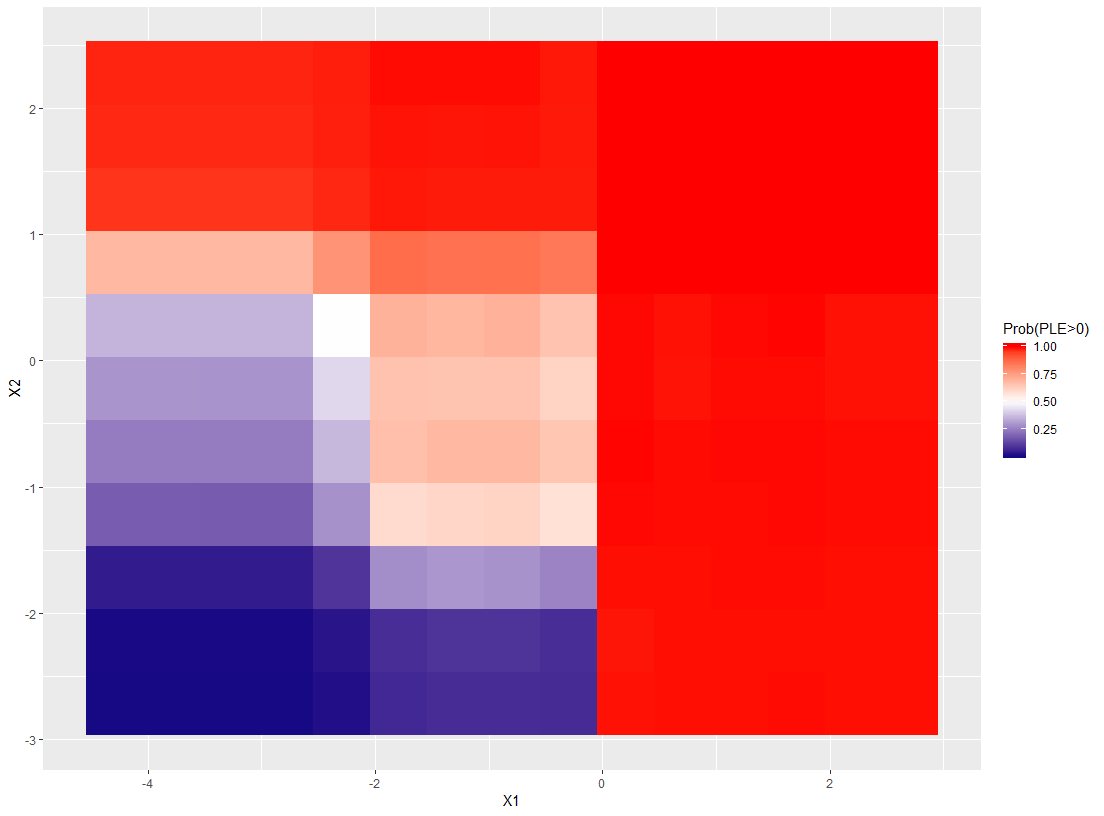
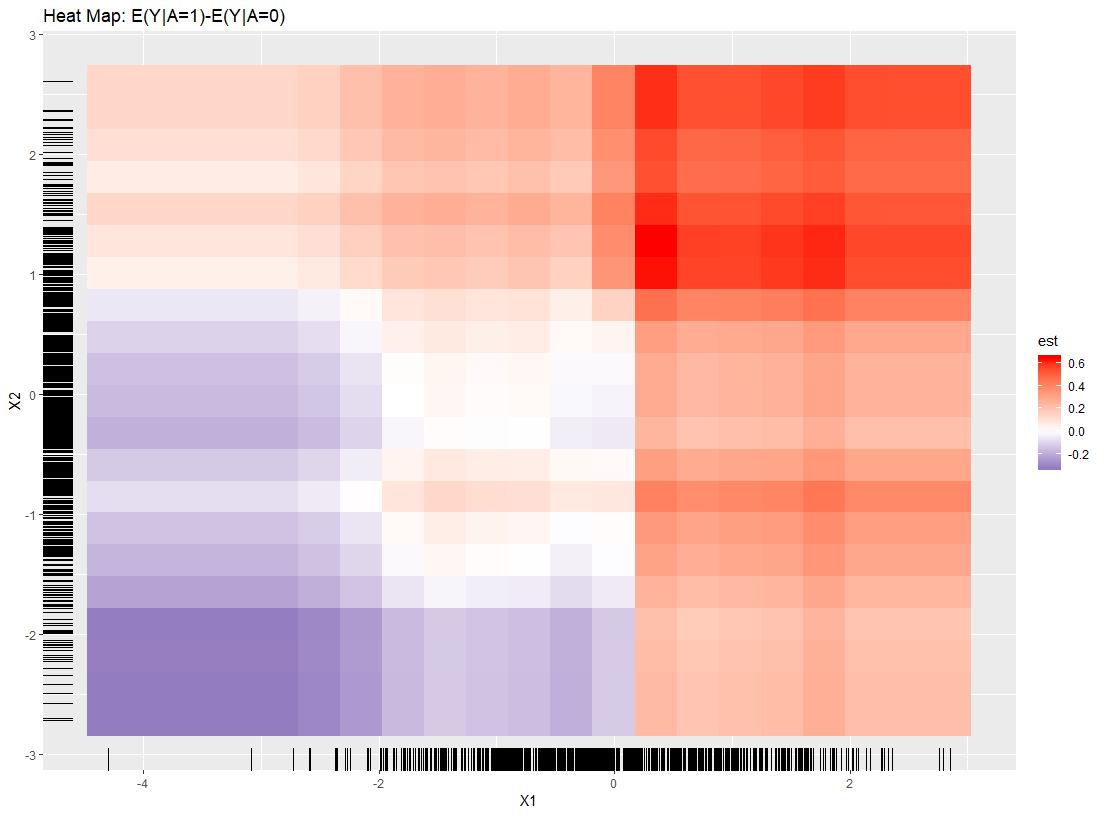
Updated examples

diff --git a/README.md b/README.md
@@ -61,79 +61,86 @@ plot(res0) # default: tree plot
 ![](man/figures/README-example-1.png)
 
 ``` r
-## Plot the distribution of PLEs ###
-plot(res0, type="PLE:density") # Density plot of PLEs #
+plot(res0, type="PLE:waterfall") # waterfall plot of PLEs
 ```
 
 ![](man/figures/README-example-2.png)
 
 ``` r
-plot(res0, type="PLE:waterfall") # waterfall plot of PLEs
+## Overall/subgroup specific parameter estimates/inference
+res0$param.dat
+#>    Subgrps   N          estimand        est         SE         LCL
+#> 1        0 800          E(Y|A=0) 1.63979818 0.04567662  1.55013782
+#> 2        0 800          E(Y|A=1) 1.83953825 0.04871379  1.74391613
+#> 3        0 800 E(Y|A=1)-E(Y|A=0) 0.19974008 0.06329221  0.07550143
+#> 4        3 149          E(Y|A=0) 1.28297958 0.11169103  1.06226442
+#> 5        3 149          E(Y|A=1) 1.31807996 0.10932336  1.10204360
+#> 6        3 149 E(Y|A=1)-E(Y|A=0) 0.03510038 0.15343734 -0.26811059
+#> 7        4 277          E(Y|A=0) 1.61280771 0.06705679  1.48079995
+#> 8        4 277          E(Y|A=1) 1.67336273 0.07708837  1.52160684
+#> 9        4 277 E(Y|A=1)-E(Y|A=0) 0.06055502 0.10098218 -0.13823814
+#> 10       7  99          E(Y|A=0) 1.58968017 0.14067817  1.31050892
+#> 11       7  99          E(Y|A=1) 1.92148579 0.13161892  1.66029233
+#> 12       7  99 E(Y|A=1)-E(Y|A=0) 0.33180562 0.19007951 -0.04540098
+#> 13       8 168          E(Y|A=0) 1.76688140 0.08927908  1.59062031
+#> 14       8 168          E(Y|A=1) 2.04137779 0.09774962  1.84839357
+#> 15       8 168 E(Y|A=1)-E(Y|A=0) 0.27449640 0.13104528  0.01577751
+#> 16       9 107          E(Y|A=0) 2.05338724 0.13530977  1.78512246
+#> 17       9 107          E(Y|A=1) 2.60314625 0.11616776  2.37283238
+#> 18       9 107 E(Y|A=1)-E(Y|A=0) 0.54975901 0.17746914  0.19790919
+#>          UCL          pval alpha  Prob(>0)
+#> 1  1.7294585 8.032773e-169  0.05 1.0000000
+#> 2  1.9351604 7.200995e-180  0.05 1.0000000
+#> 3  0.3239787  1.660367e-03  0.05 0.9991998
+#> 4  1.5036947  3.103578e-22  0.05 1.0000000
+#> 5  1.5341163  9.481730e-24  0.05 1.0000000
+#> 6  0.3383114  8.193710e-01  0.05 0.5904724
+#> 7  1.7448155  1.087589e-69  0.05 1.0000000
+#> 8  1.8251186  1.235131e-61  0.05 1.0000000
+#> 9  0.2593482  5.492246e-01  0.05 0.7256337
+#> 10 1.8688514  1.876468e-19  0.05 1.0000000
+#> 11 2.1826792  2.520863e-26  0.05 1.0000000
+#> 12 0.7090122  8.401201e-02  0.05 0.9595611
+#> 13 1.9431425  1.190149e-45  0.05 1.0000000
+#> 14 2.2343620  1.958038e-48  0.05 1.0000000
+#> 15 0.5332153  3.770973e-02  0.05 0.9818998
+#> 16 2.3216520  2.475816e-28  0.05 1.0000000
+#> 17 2.8334601  5.223720e-42  0.05 1.0000000
+#> 18 0.9016088  2.496084e-03  0.05 0.9990251
+## Forest plot: Overall/subgroup specific parameter estimates (CIs)
+plot(res0, type="forest")
 ```
 
 ![](man/figures/README-example-3.png)
 
 ``` r
-## Overall/subgroup specific parameter estimates/inference
-res0$param.dat
-#>    Subgrps   N          estimand          est         SE         LCL
-#> 1        0 800          E(Y|A=0)  1.647206172 0.04818083  1.55263022
-#> 2        0 800          E(Y|A=1)  1.824851581 0.05059272  1.72554124
-#> 3        0 800 E(Y|A=1)-E(Y|A=0)  0.177645409 0.06401659  0.05198484
-#> 4        3 149          E(Y|A=0)  1.307796853 0.11780524  1.07499927
-#> 5        3 149          E(Y|A=1)  1.304127531 0.11253956  1.08173558
-#> 6        3 149 E(Y|A=1)-E(Y|A=0) -0.003669322 0.15361575 -0.30723286
-#> 7        4 277          E(Y|A=0)  1.595278111 0.07083816  1.45582638
-#> 8        4 277          E(Y|A=1)  1.681506030 0.07991550  1.52418467
-#> 9        4 277 E(Y|A=1)-E(Y|A=0)  0.086227920 0.10124699 -0.11308654
-#> 10       7  99          E(Y|A=0)  1.634126348 0.14867139  1.33909281
-#> 11       7  99          E(Y|A=1)  1.906350368 0.13876001  1.63098565
-#> 12       7  99 E(Y|A=1)-E(Y|A=0)  0.272224021 0.19338298 -0.11153820
-#> 13       8 168          E(Y|A=0)  1.777156158 0.09403446  1.59150665
-#> 14       8 168          E(Y|A=1)  2.028613094 0.10191424  1.82740676
-#> 15       8 168 E(Y|A=1)-E(Y|A=0)  0.251456937 0.13271402 -0.01055649
-#> 16       9 107          E(Y|A=0)  2.062340441 0.14392044  1.77700417
-#> 17       9 107          E(Y|A=1)  2.525732768 0.12550856  2.27689985
-#> 18       9 107 E(Y|A=1)-E(Y|A=0)  0.463392328 0.18604036  0.09454922
-#>          UCL          pval alpha
-#> 1  1.7417821 1.526241e-158  0.05
-#> 2  1.9241619 7.844199e-170  0.05
-#> 3  0.3033060  5.649268e-03  0.05
-#> 4  1.5405944  3.274666e-21  0.05
-#> 5  1.5265195  1.669789e-22  0.05
-#> 6  0.2998942  9.809754e-01  0.05
-#> 7  1.7347298  1.859005e-64  0.05
-#> 8  1.8388274  2.661126e-59  0.05
-#> 9  0.2855424  3.951417e-01  0.05
-#> 10 1.9291599  8.652905e-19  0.05
-#> 11 2.1817151  1.401325e-24  0.05
-#> 12 0.6559862  1.623859e-01  0.05
-#> 13 1.9628057  2.470671e-43  0.05
-#> 14 2.2298194  6.037915e-46  0.05
-#> 15 0.5134704  5.985669e-02  0.05
-#> 16 2.3476767  1.500633e-26  0.05
-#> 17 2.7745657  5.416700e-38  0.05
-#> 18 0.8322354  1.429656e-02  0.05
-## Forest plot: Overall/subgroup specific parameter estimates (CIs)
-plot(res0, type="forest")
+
+## Dependence Plots (univariate and heat maps)
+plot_dependence(res0, vars="X1")
+#> $res.est
+#> `geom_smooth()` using method = 'loess' and formula 'y ~ x'
 ```
 
 ![](man/figures/README-example-4.png)
 
 ``` r
-
-## Heatmap of PLEs (Individual treatment effects, E(Y|A=1,X)-E(Y|A=0,X)) #
-grid.data = expand.grid(X1 = seq(min(X$X1), max(X$X1), by=0.5),
-                    X2 = seq(min(X$X2), max(X$X2), by=0.5))
-plot(res0, type="heatmap", grid.data = grid.data)
-#> $heatmap.est
+plot_dependence(res0, vars="X2")
+#> $res.est
+#> `geom_smooth()` using method = 'loess' and formula 'y ~ x'
 ```
 
 ![](man/figures/README-example-5.png)
 
+``` r
+plot_dependence(res0, vars=c("X1", "X2"))
+#> $heatmap.est
+```
+
+![](man/figures/README-example-6.png)
+
     #> 
     #> $heatmap.prob
 
-![](man/figures/README-example-6.png)
+![](man/figures/README-example-7.png)
 
 Overall, PRISM provides information at the patient-level, the subgroup-level (if any), and the overall population. While there are defaults in place, the user can also input their own functions/model wrappers into the PRISM algorithm. For more details and more examples, we refer the reader to the following vignettes, [PRISM\_vignette](https://CRAN.R-project.org/package=StratifiedMedicine/vignettes/SM_PRISM.html), [User\_Specific\_Models](https://CRAN.R-project.org/package=StratifiedMedicine/vignettes/SM_User_Models.html).
